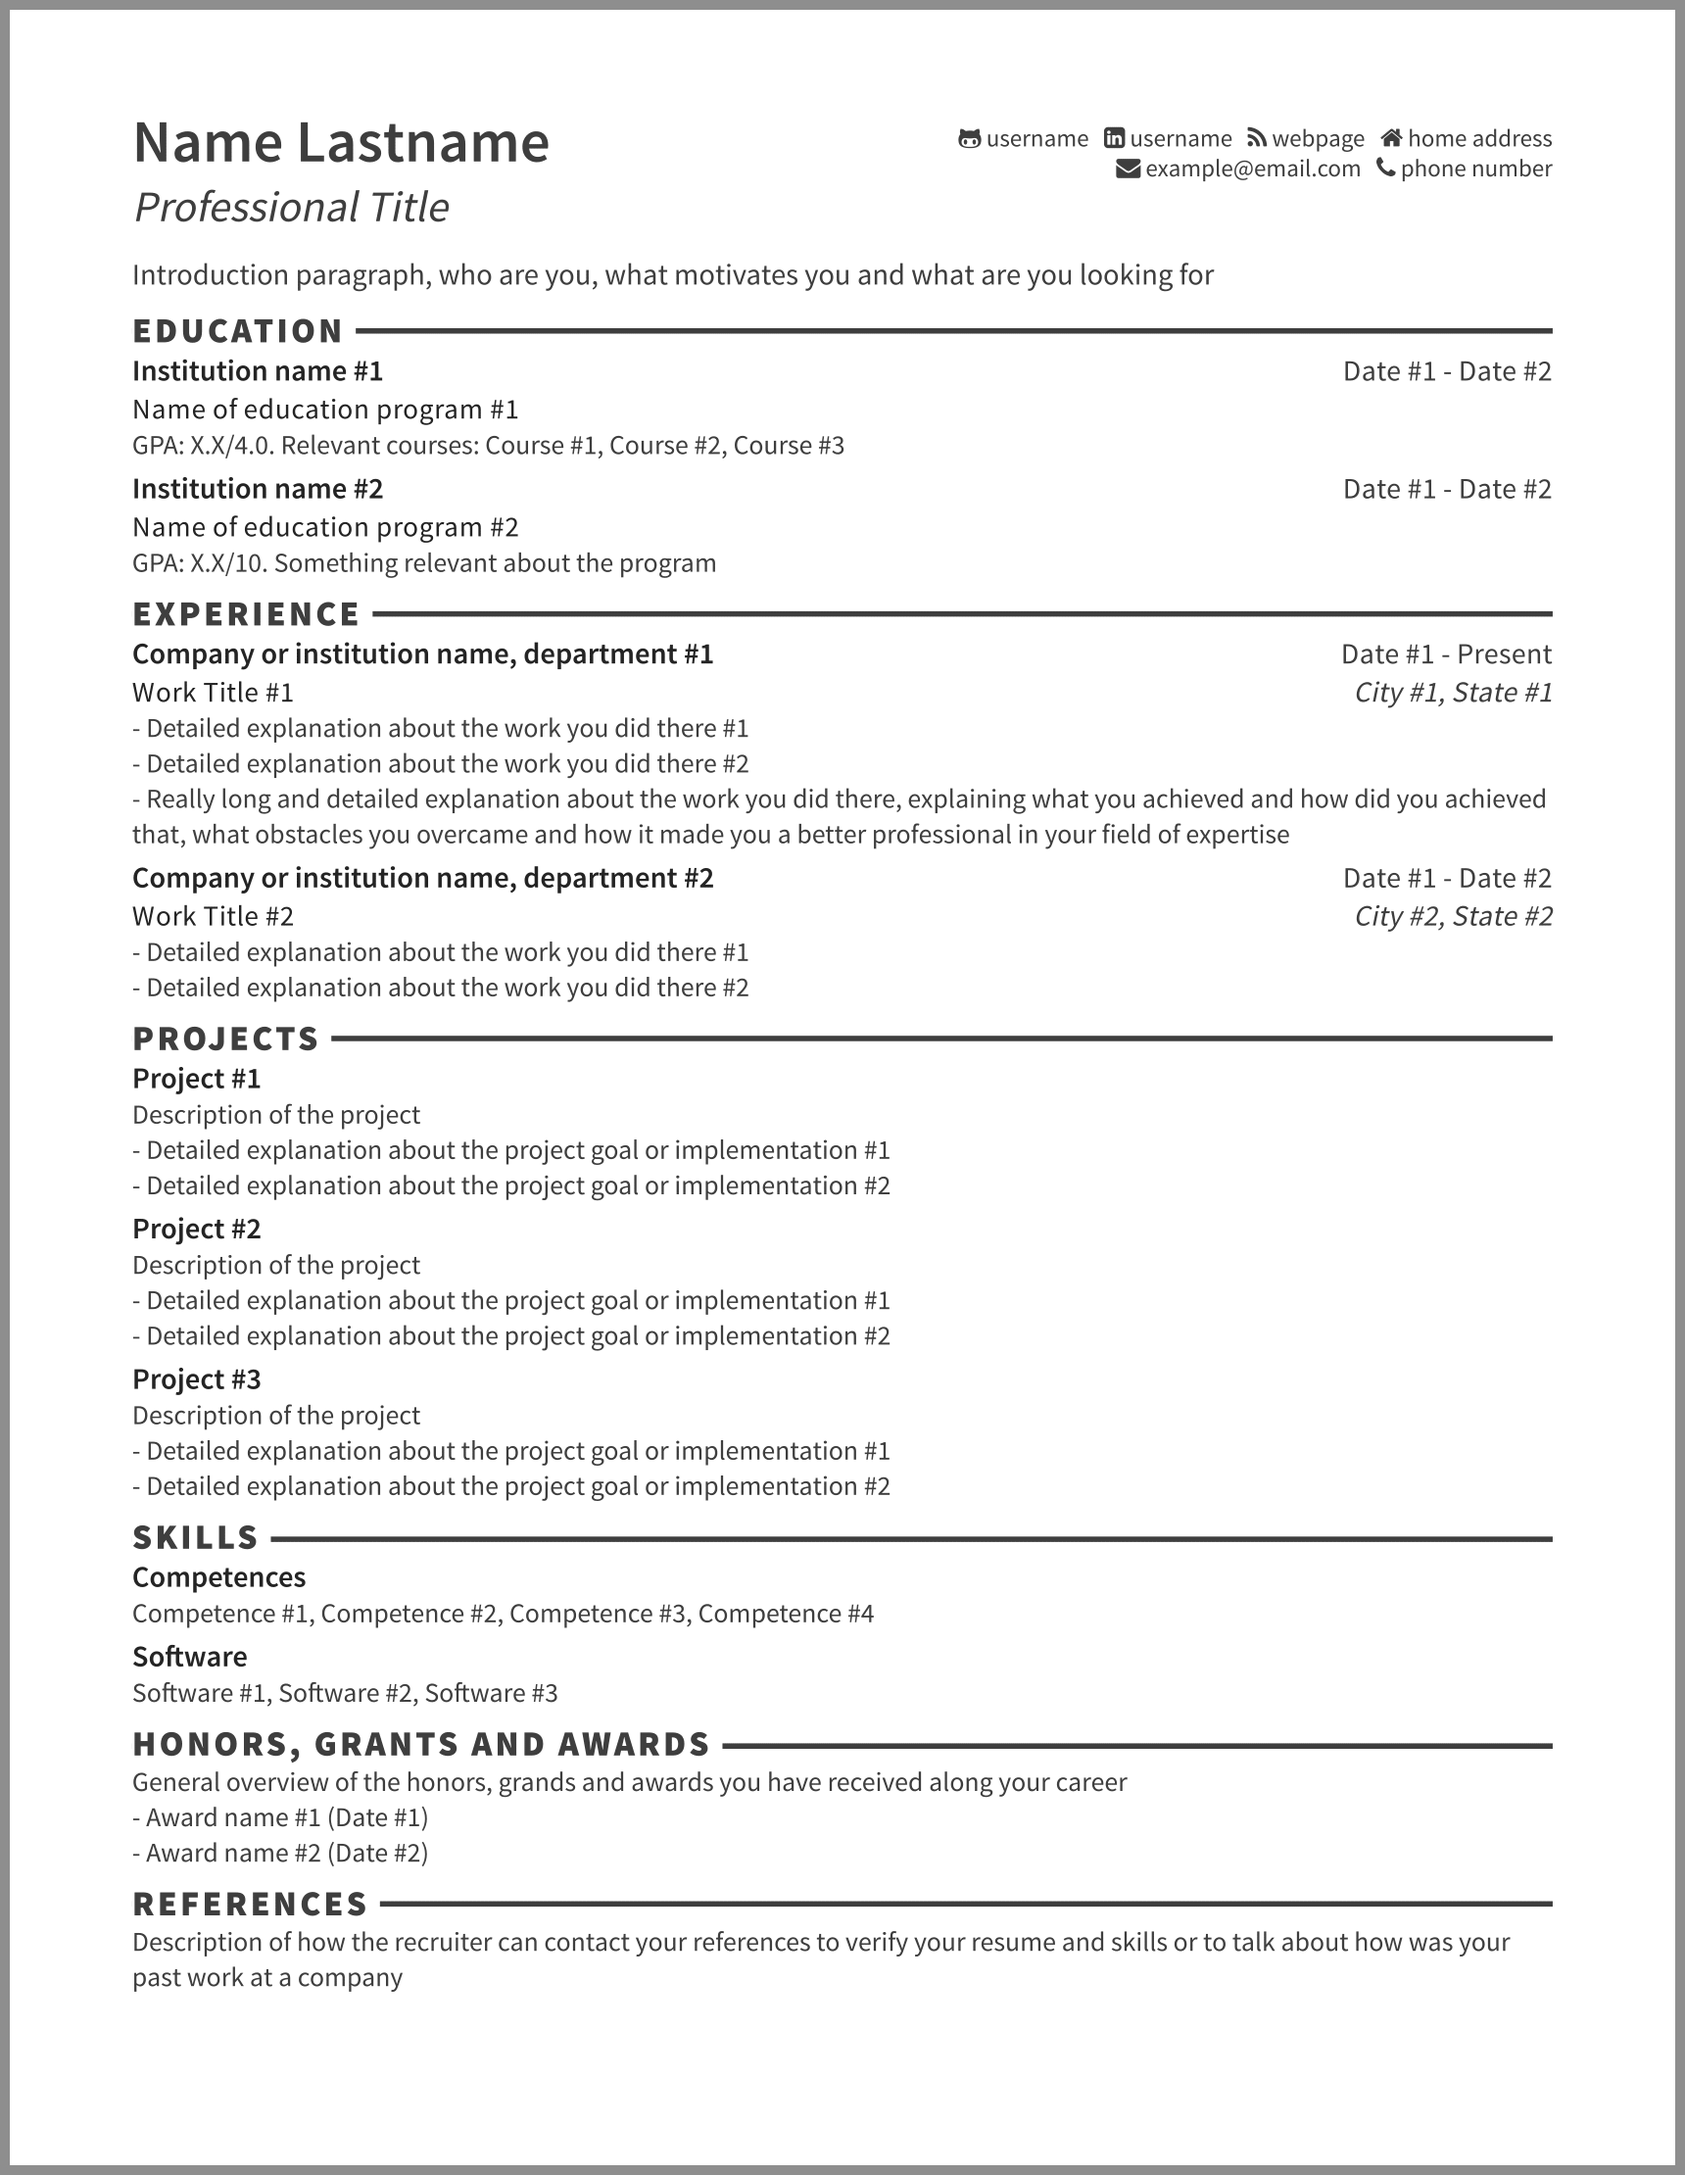
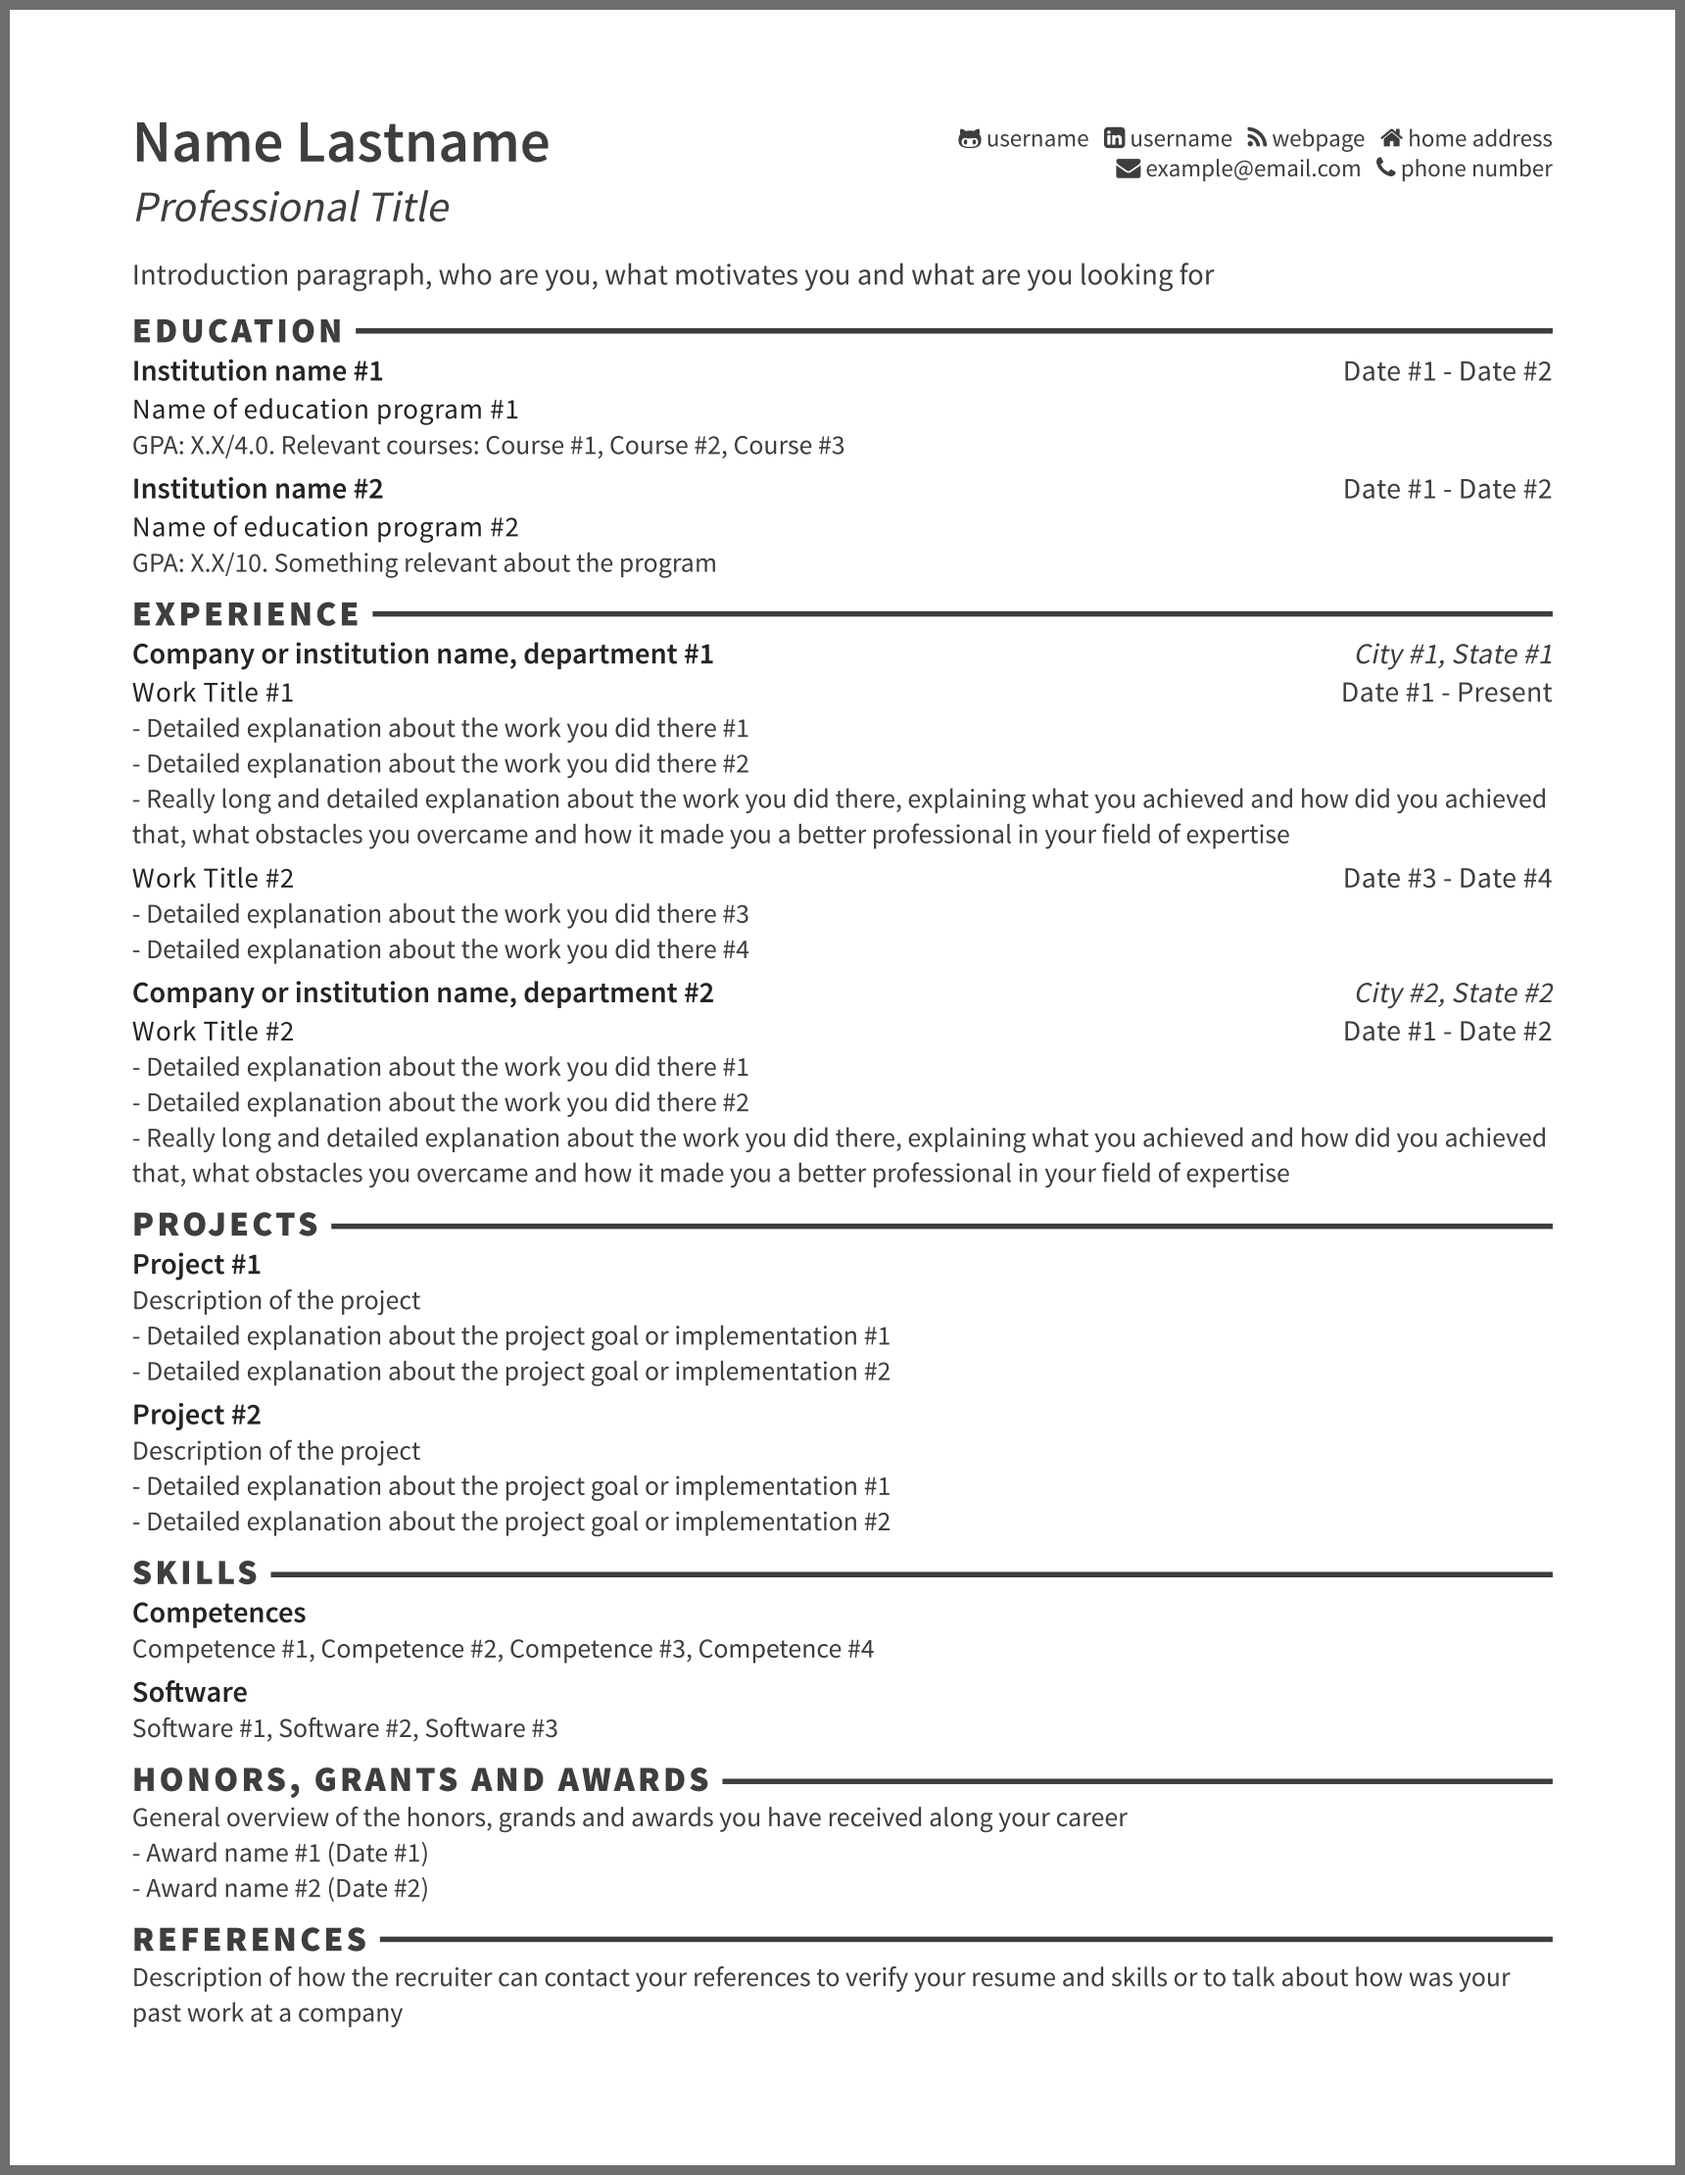
Option to add several work titles: - Omit the where/location for the next entry to be displayed as part of the previous one - More concise txt and md formats - This resolves #2

diff --git a/output/example.html b/output/example.html
@@ -69,11 +69,11 @@
                 <div class="content-entry">
                   <div class="entry-header">
                       <span class="entry-where">Company or institution name, department #1</span>
+                      <span class="entry-location">City #1, State #1</span>
                       <span class="entry-when">Date #1 - Present</span>
                       <span class="entry-what">
                       Work Title #1
                       </span>
-                        <span class="entry-location">City #1, State #1</span>
                   </div>
                     <span class="entry-detail">
                       <span>- Detailed explanation about the work you did there #1</span>
@@ -87,18 +87,35 @@
                 </div>
                 <div class="content-entry">
                   <div class="entry-header">
+                      <span class="entry-when">Date #3 - Date #4</span>
+                      <span class="entry-what">
+                      Work Title #2
+                      </span>
+                  </div>
+                    <span class="entry-detail">
+                      <span>- Detailed explanation about the work you did there #3</span>
+                    </span>
+                    <span class="entry-detail">
+                      <span>- Detailed explanation about the work you did there #4</span>
+                    </span>
+                </div>
+                <div class="content-entry">
+                  <div class="entry-header">
                       <span class="entry-where">Company or institution name, department #2</span>
+                      <span class="entry-location">City #2, State #2</span>
                       <span class="entry-when">Date #1 - Date #2</span>
                       <span class="entry-what">
                       Work Title #2
                       </span>
-                        <span class="entry-location">City #2, State #2</span>
                   </div>
                     <span class="entry-detail">
                       <span>- Detailed explanation about the work you did there #1</span>
                     </span>
                     <span class="entry-detail">
                       <span>- Detailed explanation about the work you did there #2</span>
+                    </span>
+                    <span class="entry-detail">
+                      <span>- Really long and detailed explanation about the work you did there, explaining what you achieved and how did you achieved that, what obstacles you overcame and how it made you a better professional in your field of expertise</span>
                     </span>
                 </div>
             </div>
@@ -129,22 +146,6 @@
                       <span class="entry-what">
                         <a href="https://github.com/">
                       Project #2
-                        </a>
-                      </span>
-                  </div>
-                    <span class="entry-description">Description of the project</span>
-                    <span class="entry-detail">
-                      <span>- Detailed explanation about the project goal or implementation #1</span>
-                    </span>
-                    <span class="entry-detail">
-                      <span>- Detailed explanation about the project goal or implementation #2</span>
-                    </span>
-                </div>
-                <div class="content-entry">
-                  <div class="entry-header">
-                      <span class="entry-what">
-                        <a href="https://github.com/">
-                      Project #3
                         </a>
                       </span>
                   </div>

diff --git a/output/resume.css b/output/resume.css
@@ -140,6 +140,7 @@ a:hover {
 .entry-when,
 .entry-location {
   float: right;
+  clear: right;
 }
 .entry-location {
   font-style: italic;
@@ -151,7 +152,7 @@ a:hover {
   display: block;
   font-weight: 600;
 }
-.entry-where ~ .entry-what {
+.entry-when ~ .entry-what {
   font-size: 10.5pt;
   font-weight: 400;
   clear: left;

diff --git a/resumeHTML.css b/resumeHTML.css
@@ -140,6 +140,7 @@ a:hover {
 .entry-when,
 .entry-location {
   float: right;
+  clear: right;
 }
 .entry-location {
   font-style: italic;
@@ -151,7 +152,7 @@ a:hover {
   display: block;
   font-weight: 600;
 }
-.entry-where ~ .entry-what {
+.entry-when ~ .entry-what {
   font-size: 10.5pt;
   font-weight: 400;
   clear: left;

diff --git a/output/example.md b/output/example.md
@@ -13,61 +13,42 @@ Introduction paragraph, who are you, what motivates you and what are you looking
 ## Education
 
 ### Institution name #1
-**Name of education program #1**
-
-*Date #1 - Date #2*
+**Name of education program #1** | *Date #1 - Date #2*
 
 GPA: X.X/4.0. Relevant courses: Course #1, Course #2, Course #3
 
-
 ### Institution name #2
-**Name of education program #2**
-
-*Date #1 - Date #2*
+**Name of education program #2** | *Date #1 - Date #2*
 
 GPA: X.X/10. Something relevant about the program
 
 ## Experience
 
-### Company or institution name, department #1
-**Work Title #1**
-
-*Date #1 - Present | City #1, State #1*
+### Company or institution name, department #1 | City #1, State #1
+**Work Title #1** | *Date #1 - Present*
   - Detailed explanation about the work you did there #1
   - Detailed explanation about the work you did there #2
   - Really long and detailed explanation about the work you did there, explaining what you achieved and how did you achieved that, what obstacles you overcame and how it made you a better professional in your field of expertise
 
+**Work Title #2** | *Date #3 - Date #4*
+  - Detailed explanation about the work you did there #3
+  - Detailed explanation about the work you did there #4
 
-### Company or institution name, department #2
-**Work Title #2**
-
-*Date #1 - Date #2 | City #2, State #2*
+### Company or institution name, department #2 | City #2, State #2
+**Work Title #2** | *Date #1 - Date #2*
   - Detailed explanation about the work you did there #1
   - Detailed explanation about the work you did there #2
+  - Really long and detailed explanation about the work you did there, explaining what you achieved and how did you achieved that, what obstacles you overcame and how it made you a better professional in your field of expertise
 
 ## Projects
 
-**Project #1**
-
-https://github.com/
+**Project #1** - https://github.com/
 
 Description of the project
   - Detailed explanation about the project goal or implementation #1
   - Detailed explanation about the project goal or implementation #2
 
-
-**Project #2**
-
-https://github.com/
-
-Description of the project
-  - Detailed explanation about the project goal or implementation #1
-  - Detailed explanation about the project goal or implementation #2
-
-
-**Project #3**
-
-https://github.com/
+**Project #2** - https://github.com/
 
 Description of the project
   - Detailed explanation about the project goal or implementation #1
@@ -78,7 +59,6 @@ Description of the project
 **Competences**
 
 Competence #1, Competence #2, Competence #3, Competence #4
-
 
 **Software**
 
